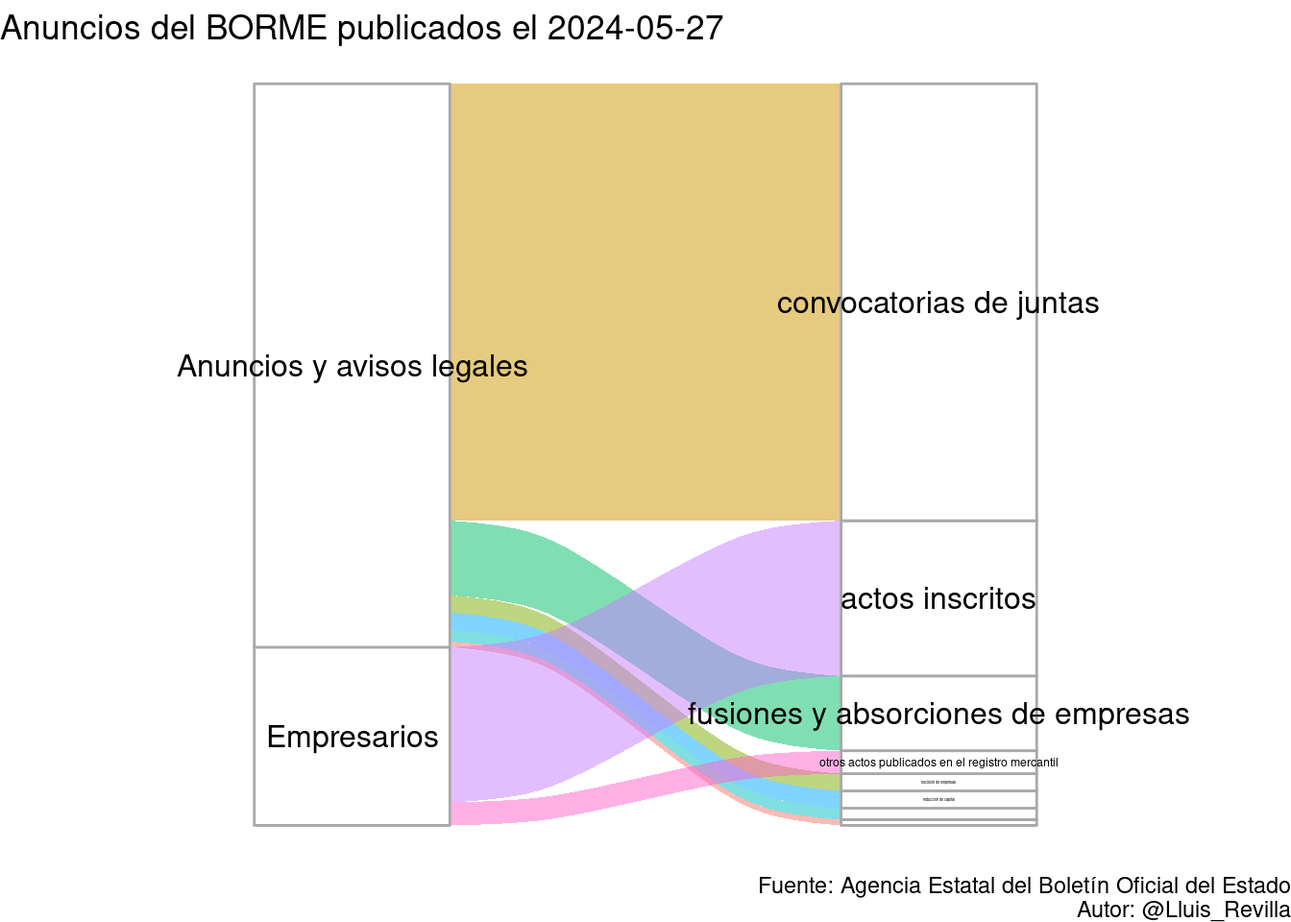
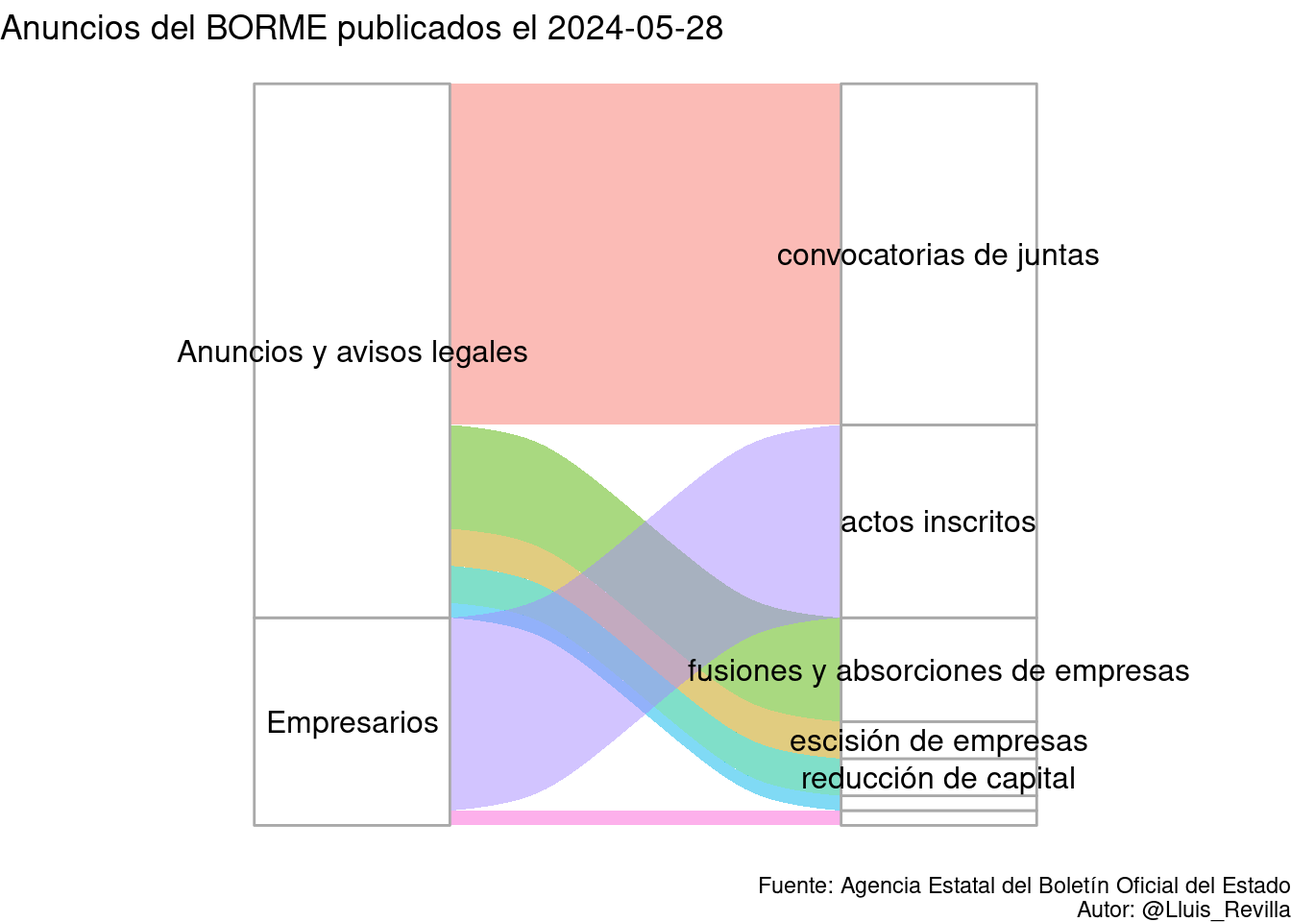
Update BORME

Changed region(s): [[0.125, 0.0938, 0.9375, 0.9062], [0.1875, 0.7812, 0.3438, 0.8125], [0.5312, 0.0, 0.5625, 0.0625]]

diff --git a/docs/last_BORME.html b/docs/last_BORME.html
@@ -379,14 +379,14 @@ $(document).ready(function () {
 
 <div id="resumen-gráfico" class="section level1">
 <h1>Resumen gráfico</h1>
-<p>Esta página web contiene el último sumario del BORME publicado el 2024-05-27 con 129 publicaciones.</p>
+<p>Esta página web contiene el último sumario del BORME publicado el 2024-05-28 con 100 publicaciones.</p>
 <p><img src="last_BORME_files/figure-html/graphics-1.png" width="672" /></p>
 </div>
 <div id="tabla-de-publicaciones" class="section level1">
 <h1>Tabla de publicaciones</h1>
 <p>Aquí está la tabla completa con enlaces a las publicaciones:</p>
-<div class="datatables html-widget html-fill-item-overflow-hidden html-fill-item" id="htmlwidget-dbc7c68d59dc7103fe21" style="width:100%;height:auto;"></div>
-<script type="application/json" data-for="htmlwidget-dbc7c68d59dc7103fe21">{"x":{"filter":"top","vertical":false,"filterHTML":"<tr>\n  <td><\/td>\n  <td data-type=\"character\" style=\"vertical-align: top;\">\n    <div class=\"form-group has-feedback\" style=\"margin-bottom: auto;\">\n      <input type=\"search\" placeholder=\"All\" class=\"form-control\" style=\"width: 100%;\"/>\n      <span class=\"glyphicon glyphicon-remove-circle form-control-feedback\"><\/span>\n    <\/div>\n  <\/td>\n  <td data-type=\"character\" style=\"vertical-align: top;\">\n    <div class=\"form-group has-feedback\" style=\"margin-bottom: auto;\">\n      <input type=\"search\" placeholder=\"All\" class=\"form-control\" style=\"width: 100%;\"/>\n      <span class=\"glyphicon glyphicon-remove-circle form-control-feedback\"><\/span>\n    <\/div>\n  <\/td>\n  <td data-type=\"character\" style=\"vertical-align: top;\">\n    <div class=\"form-group has-feedback\" style=\"margin-bottom: auto;\">\n      <input type=\"search\" placeholder=\"All\" class=\"form-control\" style=\"width: 100%;\" disabled=\"\"/>\n      <span class=\"glyphicon glyphicon-remove-circle form-control-feedback\"><\/span>\n    <\/div>\n  <\/td>\n  <td data-type=\"character\" style=\"vertical-align: top;\">\n    <div class=\"form-group has-feedback\" style=\"margin-bottom: auto;\">\n      <input type=\"search\" placeholder=\"All\" class=\"form-control\" style=\"width: 100%;\"/>\n      <span class=\"glyphicon glyphicon-remove-circle form-control-feedback\"><\/span>\n    <\/div>\n  <\/td>\n<\/tr>","data":[["1","2","3","4","5","6","7","8","9","10","11","12","13","14","15","16","17","18","19","20","21","22","23","24","25","26","27","28","29","30","31","32","33","34","35","36","37","38","39","40","41","42","43","44","45","46","47","48","49","50","51","52","53","54","55","56","57","58","59","60","61","62","63","64","65","66","67","68","69","70","71","72","73","74","75","76","77","78","79","80","81","82","83","84","85","86","87","88","89","90","91","92","93","94","95","96","97","98","99","100","101","102","103","104","105","106","107","108","109","110","111","112","113","114","115","116","117","118","119","120","121","122","123","124","125","126","127","128","129"],["SECCIÓN PRIMERA. Empresarios","SECCIÓN PRIMERA. Empresarios","SECCIÓN PRIMERA. Empresarios","SECCIÓN PRIMERA. Empresarios","SECCIÓN PRIMERA. Empresarios","SECCIÓN PRIMERA. Empresarios","SECCIÓN PRIMERA. Empresarios","SECCIÓN PRIMERA. Empresarios","SECCIÓN PRIMERA. Empresarios","SECCIÓN PRIMERA. Empresarios","SECCIÓN PRIMERA. Empresarios","SECCIÓN PRIMERA. Empresarios","SECCIÓN PRIMERA. Empresarios","SECCIÓN PRIMERA. Empresarios","SECCIÓN PRIMERA. Empresarios","SECCIÓN PRIMERA. Empresarios","SECCIÓN PRIMERA. Empresarios","SECCIÓN PRIMERA. Empresarios","SECCIÓN PRIMERA. Empresarios","SECCIÓN PRIMERA. Empresarios","SECCIÓN PRIMERA. Empresarios","SECCIÓN PRIMERA. Empresarios","SECCIÓN PRIMERA. Empresarios","SECCIÓN PRIMERA. Empresarios","SECCIÓN PRIMERA. Empresarios","SECCIÓN PRIMERA. Empresarios","SECCIÓN PRIMERA. Empresarios","SECCIÓN PRIMERA. Empresarios","SECCIÓN PRIMERA. Empresarios","SECCIÓN PRIMERA. Empresarios","SECCIÓN PRIMERA. Empresarios","SECCIÓN SEGUNDA. Anuncios y avisos legales","SECCIÓN SEGUNDA. Anuncios y avisos legales","SECCIÓN SEGUNDA. Anuncios y avisos legales","SECCIÓN SEGUNDA. Anuncios y avisos legales","SECCIÓN SEGUNDA. Anuncios y avisos legales","SECCIÓN SEGUNDA. Anuncios y avisos legales","SECCIÓN SEGUNDA. Anuncios y avisos legales","SECCIÓN SEGUNDA. Anuncios y avisos legales","SECCIÓN SEGUNDA. Anuncios y avisos legales","SECCIÓN SEGUNDA. Anuncios y avisos legales","SECCIÓN SEGUNDA. Anuncios y avisos legales","SECCIÓN SEGUNDA. Anuncios y avisos legales","SECCIÓN SEGUNDA. Anuncios y avisos legales","SECCIÓN SEGUNDA. Anuncios y avisos legales","SECCIÓN SEGUNDA. Anuncios y avisos legales","SECCIÓN SEGUNDA. Anuncios y avisos legales","SECCIÓN SEGUNDA. Anuncios y avisos legales","SECCIÓN SEGUNDA. Anuncios y avisos legales","SECCIÓN SEGUNDA. Anuncios y avisos legales","SECCIÓN SEGUNDA. Anuncios y avisos legales","SECCIÓN SEGUNDA. Anuncios y avisos legales","SECCIÓN SEGUNDA. Anuncios y avisos legales","SECCIÓN SEGUNDA. Anuncios y avisos legales","SECCIÓN SEGUNDA. Anuncios y avisos legales","SECCIÓN SEGUNDA. Anuncios y avisos legales","SECCIÓN SEGUNDA. Anuncios y avisos legales","SECCIÓN SEGUNDA. Anuncios y avisos legales","SECCIÓN SEGUNDA. Anuncios y avisos legales","SECCIÓN SEGUNDA. Anuncios y avisos legales","SECCIÓN SEGUNDA. Anuncios y avisos legales","SECCIÓN SEGUNDA. Anuncios y avisos legales","SECCIÓN SEGUNDA. Anuncios y avisos legales","SECCIÓN SEGUNDA. Anuncios y avisos legales","SECCIÓN SEGUNDA. Anuncios y avisos legales","SECCIÓN SEGUNDA. Anuncios y avisos legales","SECCIÓN SEGUNDA. Anuncios y avisos legales","SECCIÓN SEGUNDA. Anuncios y avisos legales","SECCIÓN SEGUNDA. Anuncios y avisos legales","SECCIÓN SEGUNDA. Anuncios y avisos legales","SECCIÓN SEGUNDA. Anuncios y avisos legales","SECCIÓN SEGUNDA. Anuncios y avisos legales","SECCIÓN SEGUNDA. Anuncios y avisos legales","SECCIÓN SEGUNDA. Anuncios y avisos legales","SECCIÓN SEGUNDA. Anuncios y avisos legales","SECCIÓN SEGUNDA. Anuncios y avisos legales","SECCIÓN SEGUNDA. Anuncios y avisos legales","SECCIÓN SEGUNDA. Anuncios y avisos legales","SECCIÓN SEGUNDA. Anuncios y avisos legales","SECCIÓN SEGUNDA. Anuncios y avisos legales","SECCIÓN SEGUNDA. Anuncios y avisos legales","SECCIÓN SEGUNDA. Anuncios y avisos legales","SECCIÓN SEGUNDA. Anuncios y avisos legales","SECCIÓN SEGUNDA. Anuncios y avisos legales","SECCIÓN SEGUNDA. Anuncios y avisos legales","SECCIÓN SEGUNDA. Anuncios y avisos legales","SECCIÓN SEGUNDA. Anuncios y avisos legales","SECCIÓN SEGUNDA. Anuncios y avisos legales","SECCIÓN SEGUNDA. Anuncios y avisos legales","SECCIÓN SEGUNDA. Anuncios y avisos legales","SECCIÓN SEGUNDA. Anuncios y avisos legales","SECCIÓN SEGUNDA. Anuncios y avisos legales","SECCIÓN SEGUNDA. Anuncios y avisos legales","SECCIÓN SEGUNDA. Anuncios y avisos legales","SECCIÓN SEGUNDA. Anuncios y avisos legales","SECCIÓN SEGUNDA. Anuncios y avisos legales","SECCIÓN SEGUNDA. Anuncios y avisos legales","SECCIÓN SEGUNDA. Anuncios y avisos legales","SECCIÓN SEGUNDA. Anuncios y avisos legales","SECCIÓN SEGUNDA. Anuncios y avisos legales","SECCIÓN SEGUNDA. Anuncios y avisos legales","SECCIÓN SEGUNDA. Anuncios y avisos legales","SECCIÓN SEGUNDA. Anuncios y avisos legales","SECCIÓN SEGUNDA. Anuncios y avisos legales","SECCIÓN SEGUNDA. Anuncios y avisos legales","SECCIÓN SEGUNDA. Anuncios y avisos legales","SECCIÓN SEGUNDA. Anuncios y avisos legales","SECCIÓN SEGUNDA. Anuncios y avisos legales","SECCIÓN SEGUNDA. Anuncios y avisos legales","SECCIÓN SEGUNDA. Anuncios y avisos legales","SECCIÓN SEGUNDA. Anuncios y avisos legales","SECCIÓN SEGUNDA. Anuncios y avisos legales","SECCIÓN SEGUNDA. Anuncios y avisos legales","SECCIÓN SEGUNDA. Anuncios y avisos legales","SECCIÓN SEGUNDA. Anuncios y avisos legales","SECCIÓN SEGUNDA. Anuncios y avisos legales","SECCIÓN SEGUNDA. Anuncios y avisos legales","SECCIÓN SEGUNDA. Anuncios y avisos legales","SECCIÓN SEGUNDA. Anuncios y avisos legales","SECCIÓN SEGUNDA. Anuncios y avisos legales","SECCIÓN SEGUNDA. Anuncios y avisos legales","SECCIÓN SEGUNDA. Anuncios y avisos legales","SECCIÓN SEGUNDA. Anuncios y avisos legales","SECCIÓN SEGUNDA. Anuncios y avisos legales","SECCIÓN SEGUNDA. Anuncios y avisos legales","SECCIÓN SEGUNDA. Anuncios y avisos legales","SECCIÓN SEGUNDA. Anuncios y avisos legales","SECCIÓN SEGUNDA. Anuncios y avisos legales","SECCIÓN SEGUNDA. Anuncios y avisos legales"],["Actos inscritos","Actos inscritos","Actos inscritos","Actos inscritos","Actos inscritos","Actos inscritos","Actos inscritos","Actos inscritos","Actos inscritos","Actos inscritos","Actos inscritos","Actos inscritos","Actos inscritos","Actos inscritos","Actos inscritos","Actos inscritos","Actos inscritos","Actos inscritos","Actos inscritos","Actos inscritos","Actos inscritos","Actos inscritos","Actos inscritos","Actos inscritos","Actos inscritos","Actos inscritos","Actos inscritos","Otros actos publicados en el Registro Mercantil","Otros actos publicados en el Registro Mercantil","Otros actos publicados en el Registro Mercantil","Otros actos publicados en el Registro Mercantil","CONVOCATORIAS DE JUNTAS","CONVOCATORIAS DE JUNTAS","CONVOCATORIAS DE JUNTAS","CONVOCATORIAS DE JUNTAS","CONVOCATORIAS DE JUNTAS","CONVOCATORIAS DE JUNTAS","CONVOCATORIAS DE JUNTAS","CONVOCATORIAS DE JUNTAS","CONVOCATORIAS DE JUNTAS","CONVOCATORIAS DE JUNTAS","CONVOCATORIAS DE JUNTAS","CONVOCATORIAS DE JUNTAS","CONVOCATORIAS DE JUNTAS","CONVOCATORIAS DE JUNTAS","CONVOCATORIAS DE JUNTAS","CONVOCATORIAS DE JUNTAS","CONVOCATORIAS DE JUNTAS","CONVOCATORIAS DE JUNTAS","CONVOCATORIAS DE JUNTAS","CONVOCATORIAS DE JUNTAS","CONVOCATORIAS DE JUNTAS","CONVOCATORIAS DE JUNTAS","CONVOCATORIAS DE JUNTAS","CONVOCATORIAS DE JUNTAS","CONVOCATORIAS DE JUNTAS","CONVOCATORIAS DE JUNTAS","CONVOCATORIAS DE JUNTAS","CONVOCATORIAS DE JUNTAS","CONVOCATORIAS DE JUNTAS","CONVOCATORIAS DE JUNTAS","CONVOCATORIAS DE JUNTAS","CONVOCATORIAS DE JUNTAS","CONVOCATORIAS DE JUNTAS","CONVOCATORIAS DE JUNTAS","CONVOCATORIAS DE JUNTAS","CONVOCATORIAS DE JUNTAS","CONVOCATORIAS DE JUNTAS","CONVOCATORIAS DE JUNTAS","CONVOCATORIAS DE JUNTAS","CONVOCATORIAS DE JUNTAS","CONVOCATORIAS DE JUNTAS","CONVOCATORIAS DE JUNTAS","CONVOCATORIAS DE JUNTAS","CONVOCATORIAS DE JUNTAS","CONVOCATORIAS DE JUNTAS","CONVOCATORIAS DE JUNTAS","CONVOCATORIAS DE JUNTAS","CONVOCATORIAS DE JUNTAS","CONVOCATORIAS DE JUNTAS","CONVOCATORIAS DE JUNTAS","CONVOCATORIAS DE JUNTAS","CONVOCATORIAS DE JUNTAS","CONVOCATORIAS DE JUNTAS","CONVOCATORIAS DE JUNTAS","CONVOCATORIAS DE JUNTAS","CONVOCATORIAS DE JUNTAS","CONVOCATORIAS DE JUNTAS","CONVOCATORIAS DE JUNTAS","CONVOCATORIAS DE JUNTAS","CONVOCATORIAS DE JUNTAS","CONVOCATORIAS DE JUNTAS","CONVOCATORIAS DE JUNTAS","CONVOCATORIAS DE JUNTAS","CONVOCATORIAS DE JUNTAS","CONVOCATORIAS DE JUNTAS","CONVOCATORIAS DE JUNTAS","CONVOCATORIAS DE JUNTAS","CONVOCATORIAS DE JUNTAS","CONVOCATORIAS DE JUNTAS","CONVOCATORIAS DE JUNTAS","CONVOCATORIAS DE JUNTAS","CONVOCATORIAS DE JUNTAS","CONVOCATORIAS DE JUNTAS","CONVOCATORIAS DE JUNTAS","CONVOCATORIAS DE JUNTAS","CONVOCATORIAS DE JUNTAS","FUSIONES Y ABSORCIONES DE EMPRESAS","FUSIONES Y ABSORCIONES DE EMPRESAS","FUSIONES Y ABSORCIONES DE EMPRESAS","FUSIONES Y ABSORCIONES DE EMPRESAS","FUSIONES Y ABSORCIONES DE EMPRESAS","FUSIONES Y ABSORCIONES DE EMPRESAS","FUSIONES Y ABSORCIONES DE EMPRESAS","FUSIONES Y ABSORCIONES DE EMPRESAS","FUSIONES Y ABSORCIONES DE EMPRESAS","FUSIONES Y ABSORCIONES DE EMPRESAS","FUSIONES Y ABSORCIONES DE EMPRESAS","FUSIONES Y ABSORCIONES DE EMPRESAS","FUSIONES Y ABSORCIONES DE EMPRESAS","ESCISIÓN DE EMPRESAS","ESCISIÓN DE EMPRESAS","ESCISIÓN DE EMPRESAS","CESIÓN DE EMPRESAS","REDUCCIÓN DE CAPITAL","REDUCCIÓN DE CAPITAL","REDUCCIÓN DE CAPITAL","OTROS ANUNCIOS Y AVISOS LEGALES","OTROS ANUNCIOS Y AVISOS LEGALES"],[null,null,null,null,null,null,null,null,null,null,null,null,null,null,null,null,null,null,null,null,null,null,null,null,null,null,null,null,null,null,null,null,null,null,null,null,null,null,null,null,null,null,null,null,null,null,null,null,null,null,null,null,null,null,null,null,null,null,null,null,null,null,null,null,null,null,null,null,null,null,null,null,null,null,null,null,null,null,null,null,null,null,null,null,null,null,null,null,null,null,null,null,null,null,null,null,null,null,null,null,null,null,null,null,null,null,null,null,null,null,null,null,null,null,null,null,null,null,null,null,null,null,null,null,null,null,null,null,null],["BORME-A-2024-100-02","BORME-A-2024-100-03","BORME-A-2024-100-04","BORME-A-2024-100-07","BORME-A-2024-100-08","BORME-A-2024-100-09","BORME-A-2024-100-12","BORME-A-2024-100-17","BORME-A-2024-100-18","BORME-A-2024-100-19","BORME-A-2024-100-23","BORME-A-2024-100-24","BORME-A-2024-100-26","BORME-A-2024-100-28","BORME-A-2024-100-29","BORME-A-2024-100-30","BORME-A-2024-100-33","BORME-A-2024-100-35","BORME-A-2024-100-36","BORME-A-2024-100-38","BORME-A-2024-100-40","BORME-A-2024-100-41","BORME-A-2024-100-45","BORME-A-2024-100-46","BORME-A-2024-100-47","BORME-A-2024-100-49","BORME-A-2024-100-99","BORME-B-2024-100-03","BORME-B-2024-100-08","BORME-B-2024-100-28","BORME-B-2024-100-33","BORME-C-2024-3007","BORME-C-2024-3008","BORME-C-2024-3009","BORME-C-2024-3010","BORME-C-2024-3011","BORME-C-2024-3012","BORME-C-2024-3013","BORME-C-2024-3014","BORME-C-2024-3015","BORME-C-2024-3016","BORME-C-2024-3017","BORME-C-2024-3018","BORME-C-2024-3019","BORME-C-2024-3020","BORME-C-2024-3021","BORME-C-2024-3022","BORME-C-2024-3023","BORME-C-2024-3024","BORME-C-2024-3025","BORME-C-2024-3026","BORME-C-2024-3027","BORME-C-2024-3028","BORME-C-2024-3029","BORME-C-2024-3030","BORME-C-2024-3031","BORME-C-2024-3032","BORME-C-2024-3033","BORME-C-2024-3034","BORME-C-2024-3035","BORME-C-2024-3036","BORME-C-2024-3037","BORME-C-2024-3038","BORME-C-2024-3039","BORME-C-2024-3040","BORME-C-2024-3041","BORME-C-2024-3042","BORME-C-2024-3043","BORME-C-2024-3044","BORME-C-2024-3045","BORME-C-2024-3046","BORME-C-2024-3047","BORME-C-2024-3048","BORME-C-2024-3049","BORME-C-2024-3050","BORME-C-2024-3051","BORME-C-2024-3052","BORME-C-2024-3053","BORME-C-2024-3054","BORME-C-2024-3055","BORME-C-2024-3056","BORME-C-2024-3057","BORME-C-2024-3058","BORME-C-2024-3059","BORME-C-2024-3060","BORME-C-2024-3061","BORME-C-2024-3062","BORME-C-2024-3063","BORME-C-2024-3064","BORME-C-2024-3065","BORME-C-2024-3066","BORME-C-2024-3067","BORME-C-2024-3068","BORME-C-2024-3069","BORME-C-2024-3070","BORME-C-2024-3071","BORME-C-2024-3072","BORME-C-2024-3073","BORME-C-2024-3074","BORME-C-2024-3075","BORME-C-2024-3076","BORME-C-2024-3077","BORME-C-2024-3078","BORME-C-2024-3079","BORME-C-2024-3080","BORME-C-2024-3081","BORME-C-2024-3082","BORME-C-2024-3083","BORME-C-2024-3084","BORME-C-2024-3085","BORME-C-2024-3086","BORME-C-2024-3087","BORME-C-2024-3088","BORME-C-2024-3089","BORME-C-2024-3090","BORME-C-2024-3091","BORME-C-2024-3092","BORME-C-2024-3093","BORME-C-2024-3094","BORME-C-2024-3095","BORME-C-2024-3096","BORME-C-2024-3097","BORME-C-2024-3098","BORME-C-2024-3099","BORME-C-2024-3100","BORME-C-2024-3101","BORME-C-2024-3102","BORME-C-2024-3103","BORME-C-2024-3104"]],"container":"<table class=\"display\">\n  <thead>\n    <tr>\n      <th> <\/th>\n      <th>Sección<\/th>\n      <th>Emisor<\/th>\n      <th>Texto<\/th>\n      <th>Link<\/th>\n    <\/tr>\n  <\/thead>\n<\/table>","options":{"pageLength":10,"autoWidth":true,"columnDefs":[{"orderable":false,"targets":0},{"name":" ","targets":0},{"name":"Sección","targets":1},{"name":"Emisor","targets":2},{"name":"Texto","targets":3},{"name":"Link","targets":4}],"order":[],"orderClasses":false,"orderCellsTop":true}},"evals":[],"jsHooks":[]}</script>
+<div class="datatables html-widget html-fill-item-overflow-hidden html-fill-item" id="htmlwidget-dbbdf639b207cdc8326f" style="width:100%;height:auto;"></div>
+<script type="application/json" data-for="htmlwidget-dbbdf639b207cdc8326f">{"x":{"filter":"top","vertical":false,"filterHTML":"<tr>\n  <td><\/td>\n  <td data-type=\"character\" style=\"vertical-align: top;\">\n    <div class=\"form-group has-feedback\" style=\"margin-bottom: auto;\">\n      <input type=\"search\" placeholder=\"All\" class=\"form-control\" style=\"width: 100%;\"/>\n      <span class=\"glyphicon glyphicon-remove-circle form-control-feedback\"><\/span>\n    <\/div>\n  <\/td>\n  <td data-type=\"character\" style=\"vertical-align: top;\">\n    <div class=\"form-group has-feedback\" style=\"margin-bottom: auto;\">\n      <input type=\"search\" placeholder=\"All\" class=\"form-control\" style=\"width: 100%;\"/>\n      <span class=\"glyphicon glyphicon-remove-circle form-control-feedback\"><\/span>\n    <\/div>\n  <\/td>\n  <td data-type=\"character\" style=\"vertical-align: top;\">\n    <div class=\"form-group has-feedback\" style=\"margin-bottom: auto;\">\n      <input type=\"search\" placeholder=\"All\" class=\"form-control\" style=\"width: 100%;\" disabled=\"\"/>\n      <span class=\"glyphicon glyphicon-remove-circle form-control-feedback\"><\/span>\n    <\/div>\n  <\/td>\n  <td data-type=\"character\" style=\"vertical-align: top;\">\n    <div class=\"form-group has-feedback\" style=\"margin-bottom: auto;\">\n      <input type=\"search\" placeholder=\"All\" class=\"form-control\" style=\"width: 100%;\"/>\n      <span class=\"glyphicon glyphicon-remove-circle form-control-feedback\"><\/span>\n    <\/div>\n  <\/td>\n<\/tr>","data":[["1","2","3","4","5","6","7","8","9","10","11","12","13","14","15","16","17","18","19","20","21","22","23","24","25","26","27","28","29","30","31","32","33","34","35","36","37","38","39","40","41","42","43","44","45","46","47","48","49","50","51","52","53","54","55","56","57","58","59","60","61","62","63","64","65","66","67","68","69","70","71","72","73","74","75","76","77","78","79","80","81","82","83","84","85","86","87","88","89","90","91","92","93","94","95","96","97","98","99","100"],["SECCIÓN PRIMERA. Empresarios","SECCIÓN PRIMERA. Empresarios","SECCIÓN PRIMERA. Empresarios","SECCIÓN PRIMERA. Empresarios","SECCIÓN PRIMERA. Empresarios","SECCIÓN PRIMERA. Empresarios","SECCIÓN PRIMERA. Empresarios","SECCIÓN PRIMERA. Empresarios","SECCIÓN PRIMERA. Empresarios","SECCIÓN PRIMERA. Empresarios","SECCIÓN PRIMERA. Empresarios","SECCIÓN PRIMERA. Empresarios","SECCIÓN PRIMERA. Empresarios","SECCIÓN PRIMERA. Empresarios","SECCIÓN PRIMERA. Empresarios","SECCIÓN PRIMERA. Empresarios","SECCIÓN PRIMERA. Empresarios","SECCIÓN PRIMERA. Empresarios","SECCIÓN PRIMERA. Empresarios","SECCIÓN PRIMERA. Empresarios","SECCIÓN PRIMERA. Empresarios","SECCIÓN PRIMERA. Empresarios","SECCIÓN PRIMERA. Empresarios","SECCIÓN PRIMERA. Empresarios","SECCIÓN PRIMERA. Empresarios","SECCIÓN PRIMERA. Empresarios","SECCIÓN PRIMERA. Empresarios","SECCIÓN PRIMERA. Empresarios","SECCIÓN SEGUNDA. Anuncios y avisos legales","SECCIÓN SEGUNDA. Anuncios y avisos legales","SECCIÓN SEGUNDA. Anuncios y avisos legales","SECCIÓN SEGUNDA. Anuncios y avisos legales","SECCIÓN SEGUNDA. Anuncios y avisos legales","SECCIÓN SEGUNDA. Anuncios y avisos legales","SECCIÓN SEGUNDA. Anuncios y avisos legales","SECCIÓN SEGUNDA. Anuncios y avisos legales","SECCIÓN SEGUNDA. Anuncios y avisos legales","SECCIÓN SEGUNDA. Anuncios y avisos legales","SECCIÓN SEGUNDA. Anuncios y avisos legales","SECCIÓN SEGUNDA. Anuncios y avisos legales","SECCIÓN SEGUNDA. Anuncios y avisos legales","SECCIÓN SEGUNDA. Anuncios y avisos legales","SECCIÓN SEGUNDA. Anuncios y avisos legales","SECCIÓN SEGUNDA. Anuncios y avisos legales","SECCIÓN SEGUNDA. Anuncios y avisos legales","SECCIÓN SEGUNDA. Anuncios y avisos legales","SECCIÓN SEGUNDA. Anuncios y avisos legales","SECCIÓN SEGUNDA. Anuncios y avisos legales","SECCIÓN SEGUNDA. Anuncios y avisos legales","SECCIÓN SEGUNDA. Anuncios y avisos legales","SECCIÓN SEGUNDA. Anuncios y avisos legales","SECCIÓN SEGUNDA. Anuncios y avisos legales","SECCIÓN SEGUNDA. Anuncios y avisos legales","SECCIÓN SEGUNDA. Anuncios y avisos legales","SECCIÓN SEGUNDA. Anuncios y avisos legales","SECCIÓN SEGUNDA. Anuncios y avisos legales","SECCIÓN SEGUNDA. Anuncios y avisos legales","SECCIÓN SEGUNDA. Anuncios y avisos legales","SECCIÓN SEGUNDA. Anuncios y avisos legales","SECCIÓN SEGUNDA. Anuncios y avisos legales","SECCIÓN SEGUNDA. Anuncios y avisos legales","SECCIÓN SEGUNDA. Anuncios y avisos legales","SECCIÓN SEGUNDA. Anuncios y avisos legales","SECCIÓN SEGUNDA. Anuncios y avisos legales","SECCIÓN SEGUNDA. Anuncios y avisos legales","SECCIÓN SEGUNDA. Anuncios y avisos legales","SECCIÓN SEGUNDA. Anuncios y avisos legales","SECCIÓN SEGUNDA. Anuncios y avisos legales","SECCIÓN SEGUNDA. Anuncios y avisos legales","SECCIÓN SEGUNDA. Anuncios y avisos legales","SECCIÓN SEGUNDA. Anuncios y avisos legales","SECCIÓN SEGUNDA. Anuncios y avisos legales","SECCIÓN SEGUNDA. Anuncios y avisos legales","SECCIÓN SEGUNDA. Anuncios y avisos legales","SECCIÓN SEGUNDA. Anuncios y avisos legales","SECCIÓN SEGUNDA. Anuncios y avisos legales","SECCIÓN SEGUNDA. Anuncios y avisos legales","SECCIÓN SEGUNDA. Anuncios y avisos legales","SECCIÓN SEGUNDA. Anuncios y avisos legales","SECCIÓN SEGUNDA. Anuncios y avisos legales","SECCIÓN SEGUNDA. Anuncios y avisos legales","SECCIÓN SEGUNDA. Anuncios y avisos legales","SECCIÓN SEGUNDA. Anuncios y avisos legales","SECCIÓN SEGUNDA. Anuncios y avisos legales","SECCIÓN SEGUNDA. Anuncios y avisos legales","SECCIÓN SEGUNDA. Anuncios y avisos legales","SECCIÓN SEGUNDA. Anuncios y avisos legales","SECCIÓN SEGUNDA. Anuncios y avisos legales","SECCIÓN SEGUNDA. Anuncios y avisos legales","SECCIÓN SEGUNDA. Anuncios y avisos legales","SECCIÓN SEGUNDA. Anuncios y avisos legales","SECCIÓN SEGUNDA. Anuncios y avisos legales","SECCIÓN SEGUNDA. Anuncios y avisos legales","SECCIÓN SEGUNDA. Anuncios y avisos legales","SECCIÓN SEGUNDA. Anuncios y avisos legales","SECCIÓN SEGUNDA. Anuncios y avisos legales","SECCIÓN SEGUNDA. Anuncios y avisos legales","SECCIÓN SEGUNDA. Anuncios y avisos legales","SECCIÓN SEGUNDA. Anuncios y avisos legales","SECCIÓN SEGUNDA. Anuncios y avisos legales"],["Actos inscritos","Actos inscritos","Actos inscritos","Actos inscritos","Actos inscritos","Actos inscritos","Actos inscritos","Actos inscritos","Actos inscritos","Actos inscritos","Actos inscritos","Actos inscritos","Actos inscritos","Actos inscritos","Actos inscritos","Actos inscritos","Actos inscritos","Actos inscritos","Actos inscritos","Actos inscritos","Actos inscritos","Actos inscritos","Actos inscritos","Actos inscritos","Actos inscritos","Actos inscritos","Otros actos publicados en el Registro Mercantil","Otros actos publicados en el Registro Mercantil","CONVOCATORIAS DE JUNTAS","CONVOCATORIAS DE JUNTAS","CONVOCATORIAS DE JUNTAS","CONVOCATORIAS DE JUNTAS","CONVOCATORIAS DE JUNTAS","CONVOCATORIAS DE JUNTAS","CONVOCATORIAS DE JUNTAS","CONVOCATORIAS DE JUNTAS","CONVOCATORIAS DE JUNTAS","CONVOCATORIAS DE JUNTAS","CONVOCATORIAS DE JUNTAS","CONVOCATORIAS DE JUNTAS","CONVOCATORIAS DE JUNTAS","CONVOCATORIAS DE JUNTAS","CONVOCATORIAS DE JUNTAS","CONVOCATORIAS DE JUNTAS","CONVOCATORIAS DE JUNTAS","CONVOCATORIAS DE JUNTAS","CONVOCATORIAS DE JUNTAS","CONVOCATORIAS DE JUNTAS","CONVOCATORIAS DE JUNTAS","CONVOCATORIAS DE JUNTAS","CONVOCATORIAS DE JUNTAS","CONVOCATORIAS DE JUNTAS","CONVOCATORIAS DE JUNTAS","CONVOCATORIAS DE JUNTAS","CONVOCATORIAS DE JUNTAS","CONVOCATORIAS DE JUNTAS","CONVOCATORIAS DE JUNTAS","CONVOCATORIAS DE JUNTAS","CONVOCATORIAS DE JUNTAS","CONVOCATORIAS DE JUNTAS","CONVOCATORIAS DE JUNTAS","CONVOCATORIAS DE JUNTAS","CONVOCATORIAS DE JUNTAS","CONVOCATORIAS DE JUNTAS","CONVOCATORIAS DE JUNTAS","CONVOCATORIAS DE JUNTAS","CONVOCATORIAS DE JUNTAS","CONVOCATORIAS DE JUNTAS","CONVOCATORIAS DE JUNTAS","CONVOCATORIAS DE JUNTAS","CONVOCATORIAS DE JUNTAS","CONVOCATORIAS DE JUNTAS","CONVOCATORIAS DE JUNTAS","CONVOCATORIAS DE JUNTAS","FUSIONES Y ABSORCIONES DE EMPRESAS","FUSIONES Y ABSORCIONES DE EMPRESAS","FUSIONES Y ABSORCIONES DE EMPRESAS","FUSIONES Y ABSORCIONES DE EMPRESAS","FUSIONES Y ABSORCIONES DE EMPRESAS","FUSIONES Y ABSORCIONES DE EMPRESAS","FUSIONES Y ABSORCIONES DE EMPRESAS","FUSIONES Y ABSORCIONES DE EMPRESAS","FUSIONES Y ABSORCIONES DE EMPRESAS","FUSIONES Y ABSORCIONES DE EMPRESAS","FUSIONES Y ABSORCIONES DE EMPRESAS","FUSIONES Y ABSORCIONES DE EMPRESAS","FUSIONES Y ABSORCIONES DE EMPRESAS","FUSIONES Y ABSORCIONES DE EMPRESAS","ESCISIÓN DE EMPRESAS","ESCISIÓN DE EMPRESAS","ESCISIÓN DE EMPRESAS","ESCISIÓN DE EMPRESAS","ESCISIÓN DE EMPRESAS","TRANSFORMACIÓN DE EMPRESAS","TRANSFORMACIÓN DE EMPRESAS","REDUCCIÓN DE CAPITAL","REDUCCIÓN DE CAPITAL","REDUCCIÓN DE CAPITAL","REDUCCIÓN DE CAPITAL","REDUCCIÓN DE CAPITAL"],[null,null,null,null,null,null,null,null,null,null,null,null,null,null,null,null,null,null,null,null,null,null,null,null,null,null,null,null,null,null,null,null,null,null,null,null,null,null,null,null,null,null,null,null,null,null,null,null,null,null,null,null,null,null,null,null,null,null,null,null,null,null,null,null,null,null,null,null,null,null,null,null,null,null,null,null,null,null,null,null,null,null,null,null,null,null,null,null,null,null,null,null,null,null,null,null,null,null,null,null],["BORME-A-2024-101-02","BORME-A-2024-101-04","BORME-A-2024-101-06","BORME-A-2024-101-07","BORME-A-2024-101-09","BORME-A-2024-101-11","BORME-A-2024-101-13","BORME-A-2024-101-14","BORME-A-2024-101-15","BORME-A-2024-101-18","BORME-A-2024-101-23","BORME-A-2024-101-24","BORME-A-2024-101-25","BORME-A-2024-101-27","BORME-A-2024-101-28","BORME-A-2024-101-29","BORME-A-2024-101-30","BORME-A-2024-101-34","BORME-A-2024-101-35","BORME-A-2024-101-36","BORME-A-2024-101-40","BORME-A-2024-101-45","BORME-A-2024-101-46","BORME-A-2024-101-47","BORME-A-2024-101-48","BORME-A-2024-101-99","BORME-B-2024-101-15","BORME-B-2024-101-28","BORME-C-2024-3105","BORME-C-2024-3106","BORME-C-2024-3107","BORME-C-2024-3108","BORME-C-2024-3109","BORME-C-2024-3110","BORME-C-2024-3111","BORME-C-2024-3112","BORME-C-2024-3113","BORME-C-2024-3114","BORME-C-2024-3115","BORME-C-2024-3116","BORME-C-2024-3117","BORME-C-2024-3118","BORME-C-2024-3119","BORME-C-2024-3120","BORME-C-2024-3121","BORME-C-2024-3122","BORME-C-2024-3123","BORME-C-2024-3124","BORME-C-2024-3125","BORME-C-2024-3126","BORME-C-2024-3127","BORME-C-2024-3128","BORME-C-2024-3129","BORME-C-2024-3130","BORME-C-2024-3131","BORME-C-2024-3132","BORME-C-2024-3133","BORME-C-2024-3134","BORME-C-2024-3135","BORME-C-2024-3136","BORME-C-2024-3137","BORME-C-2024-3138","BORME-C-2024-3139","BORME-C-2024-3140","BORME-C-2024-3141","BORME-C-2024-3142","BORME-C-2024-3143","BORME-C-2024-3144","BORME-C-2024-3145","BORME-C-2024-3146","BORME-C-2024-3147","BORME-C-2024-3148","BORME-C-2024-3149","BORME-C-2024-3150","BORME-C-2024-3151","BORME-C-2024-3152","BORME-C-2024-3153","BORME-C-2024-3154","BORME-C-2024-3155","BORME-C-2024-3156","BORME-C-2024-3157","BORME-C-2024-3158","BORME-C-2024-3159","BORME-C-2024-3160","BORME-C-2024-3161","BORME-C-2024-3162","BORME-C-2024-3163","BORME-C-2024-3164","BORME-C-2024-3165","BORME-C-2024-3166","BORME-C-2024-3167","BORME-C-2024-3168","BORME-C-2024-3169","BORME-C-2024-3170","BORME-C-2024-3171","BORME-C-2024-3172","BORME-C-2024-3173","BORME-C-2024-3174","BORME-C-2024-3175","BORME-C-2024-3176"]],"container":"<table class=\"display\">\n  <thead>\n    <tr>\n      <th> <\/th>\n      <th>Sección<\/th>\n      <th>Emisor<\/th>\n      <th>Texto<\/th>\n      <th>Link<\/th>\n    <\/tr>\n  <\/thead>\n<\/table>","options":{"pageLength":10,"autoWidth":true,"columnDefs":[{"orderable":false,"targets":0},{"name":" ","targets":0},{"name":"Sección","targets":1},{"name":"Emisor","targets":2},{"name":"Texto","targets":3},{"name":"Link","targets":4}],"order":[],"orderClasses":false,"orderCellsTop":true}},"evals":[],"jsHooks":[]}</script>
 </div>
 
 
